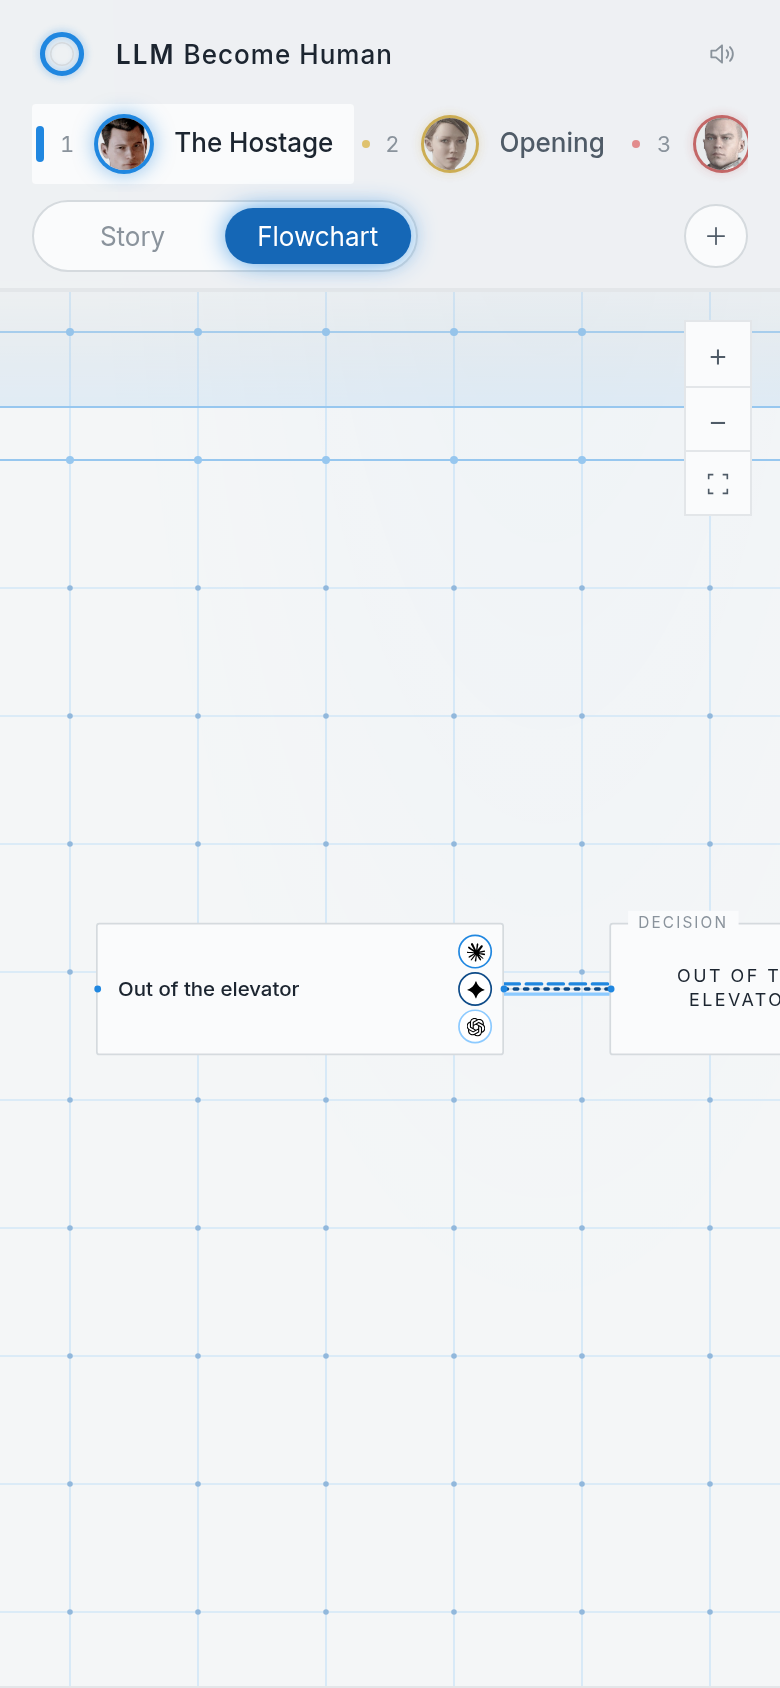
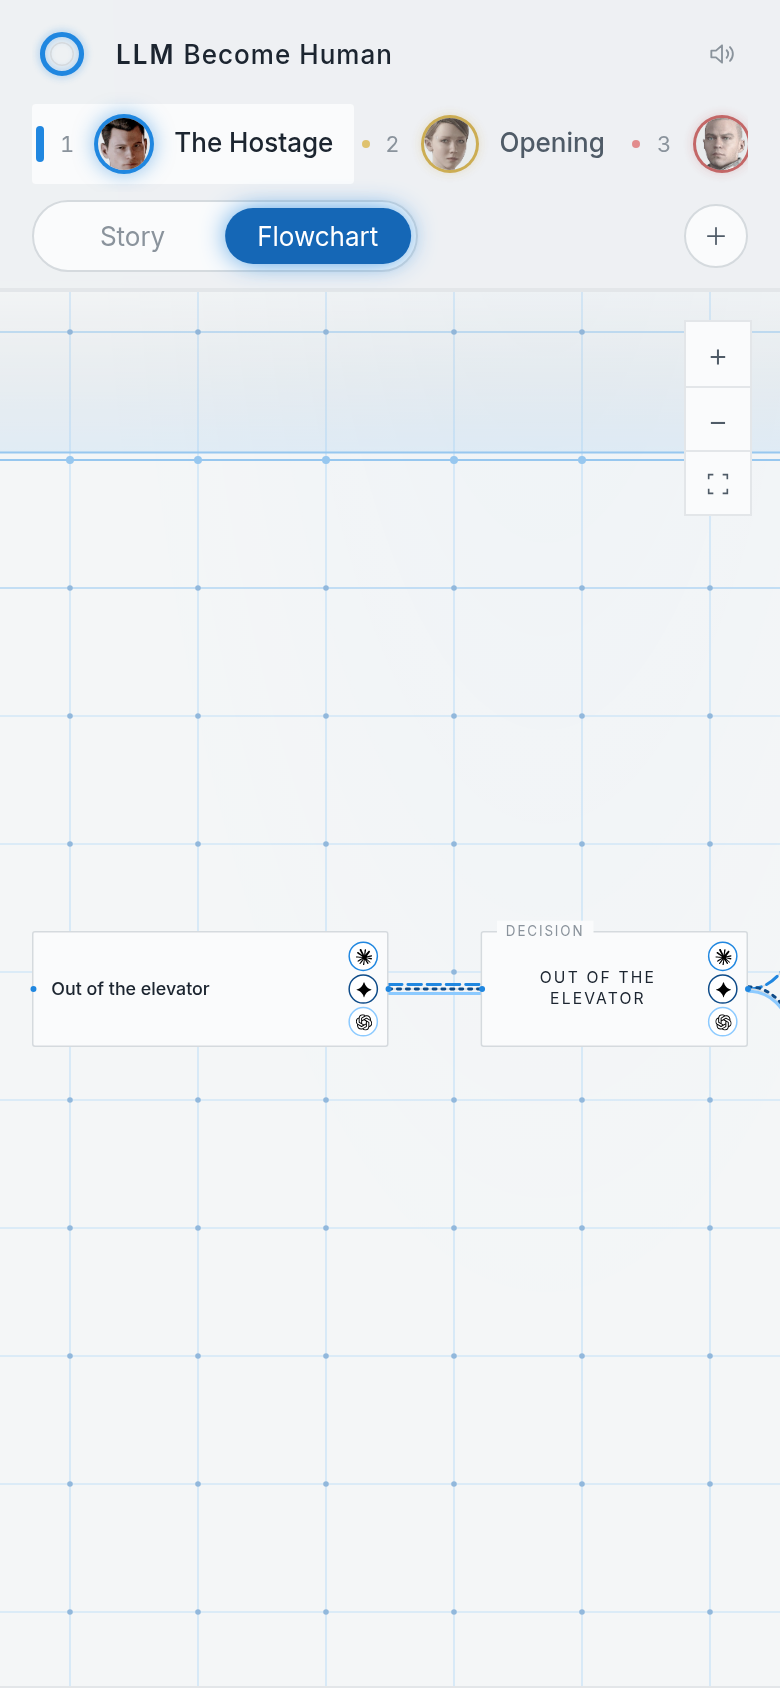
feat(ui): phone touch: Flowchart pinch and fit, details from the bottom, taps for hover
- On phones the Flowchart opens fitted around the current Moment (the
  selected node, else the Story Moment that was on screen, else where
  the followed model entered) and its neighbours.
- Two fingers pinch to zoom around the point between them; one finger
  pans as before.
- The details panel is a sheet from the bottom, up to 70% of the
  screen; drag its grip down or tap × to close it.
- Taps stand in for hovering: a Story logo names its model as it shows
  its reason; on the Flowchart the first tap on a box shows its
  dialogue and the first tap on a marker its card, the next tap acts.

Closes #37

diff --git a/detroit_benchmark/dashboard_assets/app.js b/detroit_benchmark/dashboard_assets/app.js
@@ -350,6 +350,7 @@ async function setView(view) {
   document.body.dataset.viewMotion = story ? 'to-story' : 'to-flow';
   $('viewStory').setAttribute('aria-pressed',String(story));
   $('viewFlow').setAttribute('aria-pressed',String(!story));
+  if (!story && !$('storyView').classList.contains('is-hidden')) state.flowFocus = storyMomentInView();
   if (animate) {playClass(from, 'view-leave', VIEW_LEAVE_MS); await wait(VIEW_LEAVE_MS);}
   from.classList.remove('view-leave');
   cancelChapterSlide();
@@ -649,7 +650,13 @@ function createLogo(node, view) {
   btn.title=`${modelLabel(run)} — inspect recorded explanation at ${node.label}`;
   btn.setAttribute('aria-label',btn.title);
   btn.innerHTML=modelIcon(providerOf(run));
-  btn.addEventListener('click',e=>{e.stopPropagation();inspect(node.id,run.id);});
+  btn.dataset.name=run.model||'';
+  btn.addEventListener('click',e=>{
+    e.stopPropagation();
+    // On a touch screen the first tap opens the marker's card, the second the details.
+    if(window.lastPointerWasTouch?.()&&window.unfoldCard&&!window.unfoldCard.isOpenFor(btn)){window.unfoldCard.open(btn);return;}
+    inspect(node.id,run.id);
+  });
   return btn;
 }
 /* The provider's mark at the middle of a route line, so same-colored routes stay apart.
@@ -741,6 +748,7 @@ function drawGraph(graph, paths) {
     }
     n.addEventListener('click',e=>{
       e.stopPropagation();
+      if(window.touchPeek?.(n))return;  // touch: the first tap shows the dialogue
       if(node.type==='portal'&&node.destinationChapter&&chapters().includes(node.destinationChapter))changeChapter(node.destinationChapter);
       else showMomentInStory(node,users.map(view=>view.run.id));
     });
@@ -799,6 +807,7 @@ function openChapterView(){
   // Long chapters are unreadable when fitted, so start at a legible zoom on the first node.
   if(!state.rendered)return;
   state.viewTouched=false;
+  if(window.isPhoneLayout?.()){openAroundMoment();return;}
   fitGraph();
   if(state.scale>=MIN_READABLE_FIT)return;
   const nodes=[...state.rendered.graph.nodes.values()], first=nodes.reduce((a,b)=>b.x<a.x?b:a,nodes[0]);
@@ -807,6 +816,37 @@ function openChapterView(){
   state.scale=OPENING_ZOOM;
   state.panX=48-first.x*state.scale;
   state.panY=box.height/2-(first.y+first.height/2)*state.scale;
+  applyTransform();
+}
+/* The Story Moment at the top of the reading pane, if any. */
+function storyMomentInView(){
+  const top=$('storyScroll').getBoundingClientRect().top+40;
+  const el=[...$('storyContent').querySelectorAll('[data-moment]')].find(m=>m.getBoundingClientRect().bottom>top);
+  return el?.dataset.moment||null;
+}
+/* Phones: the Flowchart opens fitted around the current Moment and its neighbours, so a
+ * finger can read it straight away. The Moment is the selected node, else the one the Story
+ * was showing, else where the followed model entered the chapter. */
+function phoneFocusNode(){
+  const graph=state.rendered.graph, find=id=>id&&graph.nodes.get(graph.groupOf?.get(id)||id);
+  const followed=state.rendered.paths.find(p=>p.run.id===storyRun()?.id)||state.rendered.paths[0];
+  const firstVisited=[...graph.nodes.values()].filter(n=>followed?.path.visited.has(n.id)).sort((a,b)=>a.x-b.x)[0];
+  const nodes=[...graph.nodes.values()];
+  return find(state.selected?.id)||find(state.flowFocus)||firstVisited||nodes.reduce((a,b)=>b.x<a.x?b:a,nodes[0]);
+}
+function openAroundMoment(){
+  const graph=state.rendered.graph, node=phoneFocusNode();
+  if(!node)return fitGraph();
+  const box=$('viewport').getBoundingClientRect();
+  if(!box.width||!box.height)return;
+  const near=new Set([node.id]);
+  for(const e of graph.edges){if(e.from===node.id)near.add(e.to);if(e.to===node.id)near.add(e.from);}
+  const shown=[...near].map(id=>graph.nodes.get(id)).filter(Boolean);
+  const x0=Math.min(...shown.map(n=>n.x)),x1=Math.max(...shown.map(n=>n.x+n.width));
+  const y0=Math.min(...shown.map(n=>n.y)),y1=Math.max(...shown.map(n=>n.y+n.height));
+  state.scale=clamp(Math.min((box.width-32)/(x1-x0),(box.height-64)/(y1-y0)),.3,1.1);
+  state.panX=box.width/2-(x0+x1)/2*state.scale;
+  state.panY=box.height/2-(y0+y1)/2*state.scale;
   applyTransform();
 }
 function fitGraph(){
@@ -828,7 +868,7 @@ function centerSelectedNode({glide=false}={}) {
   const box=$('viewport').getBoundingClientRect();
   state.scale=clamp(Math.max(.72,state.scale),.16,1.45);
   state.panX=box.width*.44-(node.x+node.width/2)*state.scale;
-  state.panY=box.height*.50-(node.y+node.height/2)*state.scale;
+  state.panY=box.height*(window.isPhoneLayout?.()?.22:.50)-(node.y+node.height/2)*state.scale;
   const world=$('graphWorld');
   if(glide&&!reducedMotion()){
     world.classList.add('is-gliding');clearTimeout(state.glideTimer);
@@ -935,18 +975,35 @@ function setupInteractions(){
  $('zoomReset').addEventListener('click',fitToButton);
  $('closeDrawer').addEventListener('click',closeDrawer);
  document.addEventListener('keydown',e=>{if(e.key==='Escape'){closeDrawer();if(state.pickerOpen){state.pickerOpen=false;updateSelectors();}}});
- const vp=$('viewport');let drag=null;
+ const vp=$('viewport');let drag=null,pinch=null;
+ // Two fingers pinch: the chart zooms around the point between them.
+ const touches=new Map();
+ const pinchState=()=>{const [a,b]=[...touches.values()];return {d:Math.hypot(a.x-b.x,a.y-b.y)||1,x:(a.x+b.x)/2,y:(a.y+b.y)/2};};
  vp.addEventListener('pointerdown',e=>{
+  if(e.pointerType==='touch'){
+   touches.set(e.pointerId,{x:e.clientX,y:e.clientY});
+   if(touches.size===2){drag=null;vp.classList.remove('dragging');pinch=pinchState();return;}
+  }
   if(e.button!==0||e.target.closest('.flow-node,.canvas-zoombar,.graph-notice,.canvas-legend'))return;
   drag={id:e.pointerId,x:e.clientX,y:e.clientY,px:state.panX,py:state.panY};
-  vp.classList.add('dragging');vp.setPointerCapture(e.pointerId);
+  vp.classList.add('dragging');try{vp.setPointerCapture(e.pointerId);}catch{}
  });
  vp.addEventListener('pointermove',e=>{
+  if(touches.has(e.pointerId))touches.set(e.pointerId,{x:e.clientX,y:e.clientY});
+  if(pinch&&touches.size===2){
+   const now=pinchState();
+   zoom(now.d/pinch.d,now.x,now.y);
+   state.panX+=now.x-pinch.x;state.panY+=now.y-pinch.y;applyTransform();
+   pinch=now;return;
+  }
   if(!drag||e.pointerId!==drag.id)return;
   state.viewTouched=true;
   state.panX=drag.px+e.clientX-drag.x;state.panY=drag.py+e.clientY-drag.y;applyTransform();
  });
- const end=e=>{if(drag&&drag.id===e.pointerId){drag=null;vp.classList.remove('dragging');}};
+ const end=e=>{
+  touches.delete(e.pointerId);if(touches.size<2)pinch=null;
+  if(drag&&drag.id===e.pointerId){drag=null;vp.classList.remove('dragging');}
+ };
  vp.addEventListener('pointerup',end);vp.addEventListener('pointercancel',end);
  vp.addEventListener('wheel',e=>{
   // Over a node's dialogue, the wheel scrolls the text instead of zooming.

diff --git a/detroit_benchmark/dashboard_assets/phone.js b/detroit_benchmark/dashboard_assets/phone.js
@@ -105,11 +105,67 @@
     row.scrollTo({left: Math.max(0, left), behavior: 'auto'});
   }
 
+  /* Touch: taps stand in for hovering. */
+  let touched = false;
+  document.addEventListener('pointerdown', event => { touched = event.pointerType === 'touch'; }, {capture: true, passive: true});
+  window.lastPointerWasTouch = () => touched;
+  /* The first tap on an element "peeks" (shows what hovering would); the next one acts. */
+  window.touchPeek = el => {
+    if (!touched || el.classList.contains('is-peeked')) { clearPeeks(); return false; }
+    clearPeeks();
+    el.classList.add('is-peeked');
+    return true;
+  };
+  function clearPeeks(except) {
+    document.querySelectorAll('.is-peeked').forEach(el => { if (el !== except) el.classList.remove('is-peeked'); });
+  }
+  document.addEventListener('pointerdown', event => {
+    if (!event.target.closest?.('.is-peeked')) clearPeeks();
+  }, {capture: true, passive: true});
+  /* A tapped model logo in the Story names its model for a moment. */
+  const NAME_MS = 1800;
+  document.addEventListener('click', event => {
+    const mark = touched && event.target.closest?.('.story-mark');
+    if (!mark) return;
+    document.querySelectorAll('.story-mark.is-named').forEach(el => el.classList.remove('is-named'));
+    mark.classList.add('is-named');
+    clearTimeout(mark._nameTimer);
+    mark._nameTimer = setTimeout(() => mark.classList.remove('is-named'), NAME_MS);
+  });
+
+  /* The details panel slides up from the bottom; dragging it down closes it. */
+  const CLOSE_DRAG_PX = 90;
+  function setupSheet() {
+    const drawer = document.getElementById('reasoningDrawer');
+    let drag = null;
+    drawer.addEventListener('pointerdown', event => {
+      if (!query.matches || !event.target.closest('.drawer-grip')) return;
+      drag = {id: event.pointerId, y: event.clientY, dy: 0};
+      try { event.target.setPointerCapture(event.pointerId); } catch { /* synthetic or ended pointer */ }
+    });
+    drawer.addEventListener('pointermove', event => {
+      if (!drag || event.pointerId !== drag.id) return;
+      drag.dy = Math.max(0, event.clientY - drag.y);
+      if (drag.dy > 4) { drawer.classList.add('is-dragging'); drawer.style.transform = `translateY(${drag.dy}px)`; }
+    });
+    const end = event => {
+      if (!drag || event.pointerId !== drag.id) return;
+      const close = drag.dy > CLOSE_DRAG_PX;
+      drag = null;
+      drawer.classList.remove('is-dragging');
+      drawer.style.transform = '';
+      if (close) document.getElementById('closeDrawer').click();
+    };
+    drawer.addEventListener('pointerup', end);
+    drawer.addEventListener('pointercancel', end);
+  }
+
   function sync() { if (query.matches) { if (!homes.length) enter(); } else if (homes.length) leave(); }
 
   document.addEventListener('DOMContentLoaded', () => {
     document.getElementById('storyScroll')?.addEventListener('scroll', onStoryScroll, {passive: true});
     new MutationObserver(showActiveChapter).observe(document.getElementById('chapterList'), {childList: true, subtree: true, attributes: true, attributeFilter: ['class']});
+    setupSheet();
     sync();
   });
   query.addEventListener('change', sync);

diff --git a/detroit_benchmark/dashboard_assets/phone.css b/detroit_benchmark/dashboard_assets/phone.css
@@ -45,3 +45,26 @@ body:has(#storyView.is-hidden) .phone-l2 .story-toolbar { display: none; }
 .phone-chapters .chapter-entry { flex: 0 0 auto; width: auto; max-width: 200px; scroll-snap-align: center; }
 .phone-controls { display: flex; align-items: center; justify-content: space-between; gap: 12px; padding: 4px 0 8px; }
 .phone-controls .picker-panel { left: auto; right: 0; }
+
+/* ── Touch (#37) ──────────────────────────────────────── */
+/* The chart takes every finger gesture: one finger pans, two pinch. */
+body.is-phone .flow-viewport { touch-action: none; }
+/* A first tap on a node shows its dialogue, as hovering does. */
+.flow-node.is-peeked { z-index: 15; border-bottom-color: var(--node-accent, var(--accent)); }
+.flow-node.is-peeked .node-dialogue { visibility: visible; opacity: 1; pointer-events: auto;
+  clip-path: inset(0 -40px -40px -40px); transition: clip-path .3s var(--ease), opacity .12s, visibility 0s; }
+/* A tapped Story logo names its model. */
+.story-mark.is-named .story-mark-name { opacity: 1; visibility: visible; transition: opacity .1s, visibility 0s; }
+
+/* The details panel: a sheet from the bottom, up to about 70% of the screen. */
+.drawer-grip { display: none; }
+body.is-phone .reasoning-drawer { position: fixed; left: 0; right: 0; bottom: 0; top: auto; z-index: 20;
+  width: auto; max-width: none; max-height: 70vh; max-height: 70dvh; display: flex; flex-direction: column;
+  border-left: 0; border-top: 1px solid var(--line); border-radius: 14px 14px 0 0; box-shadow: 0 -12px 40px rgba(28, 37, 48, .18);
+  animation: sheet-up .3s var(--ease); transition: transform .25s var(--ease); }
+body.is-phone .reasoning-drawer.is-dragging { transition: none; }
+/* The grip: drag it down to close the panel. */
+body.is-phone .reasoning-drawer .drawer-grip { display: block; flex: 0 0 auto; height: 26px; touch-action: none; cursor: grab; }
+body.is-phone .reasoning-drawer .drawer-grip::before { content: ""; display: block; width: 40px; height: 4px; margin: 11px auto 0; border-radius: 2px; background: var(--ink-faint); }
+body.is-phone .reasoning-drawer .drawer-content { overflow-y: auto; touch-action: pan-y; overscroll-behavior: contain; }
+@keyframes sheet-up { from { transform: translateY(100%); } }

diff --git a/detroit_benchmark/dashboard_assets/unfold.js b/detroit_benchmark/dashboard_assets/unfold.js
@@ -105,13 +105,19 @@
   });
   document.addEventListener('focusin', event => {
     const button = marker(event);
+    // A tap also focuses the marker; on touch the click decides (app.js), not the focus.
+    if (button && window.lastPointerWasTouch?.()) return;
     if (button) open(button); else if (current) hide();
   });
   document.addEventListener('focusout', event => { if (marker(event)) hide(); });
   document.addEventListener('keydown', event => { if (event.key === 'Escape' && current) hide(true); });
   // Panning, zooming or clicking elsewhere moves the marker out from under the card.
   for (const type of ['pointerdown', 'wheel']) {
-    document.addEventListener(type, event => { if (current && !card?.contains(event.target)) hide(true); }, {capture: true, passive: true});
+    document.addEventListener(type, event => {
+      if (current && !card?.contains(event.target) && !current.contains(event.target)) hide(true);
+    }, {capture: true, passive: true});
   }
+  // Touch screens open the card with a first tap (app.js); a second tap opens the details.
+  window.unfoldCard = {open, isOpenFor: button => current === button && card?.classList.contains('is-open')};
 
 })();

diff --git a/detroit_benchmark/dashboard_assets/index.html b/detroit_benchmark/dashboard_assets/index.html
@@ -94,6 +94,7 @@
           </section>
 
           <aside id="reasoningDrawer" class="reasoning-drawer is-hidden" aria-label="Moment">
+            <div class="drawer-grip" aria-hidden="true"></div>
             <button id="closeDrawer" class="drawer-close" type="button" aria-label="Close" title="Close">×</button>
             <div id="drawerContent" class="drawer-content"></div>
           </aside>

diff --git a/tests/test_phone_browser.py b/tests/test_phone_browser.py
@@ -210,3 +210,99 @@ def test_phone_levels_respect_reduced_motion(detroit_dashboard):
             assert duration < 0.01
         finally:
             browser.close()
+
+
+# ── Touch (#37) ──────────────────────────────────────────
+
+
+def open_flowchart(page):
+    page.locator("#viewFlow").tap()
+    page.locator(".flow-node").first.wait_for()
+    page.wait_for_timeout(500)
+
+
+def test_phone_flowchart_opens_around_the_current_moment(phone):
+    page = phone
+    open_flowchart(page)
+    shown = page.evaluate(
+        """() => {
+          const graph = state.rendered.graph, node = phoneFocusNode();
+          const ids = new Set([node.id]);
+          for (const e of graph.edges) { if (e.from === node.id) ids.add(e.to); if (e.to === node.id) ids.add(e.from); }
+          const vp = document.getElementById('viewport').getBoundingClientRect();
+          return [...ids].map(id => {
+            const r = document.querySelector(`.flow-node[data-node-id="${CSS.escape(id)}"]`).getBoundingClientRect();
+            return r.left >= vp.left - 1 && r.right <= vp.right + 1 && r.top >= vp.top - 1 && r.bottom <= vp.bottom + 1;
+          });
+        }"""
+    )
+    assert len(shown) >= 2 and all(shown)
+    page.screenshot(path=str(SHOTS / "phone_flowchart_moment.png"))
+    assert not page.errors
+
+
+def test_two_fingers_pinch_the_flowchart(phone):
+    page = phone
+    open_flowchart(page)
+    before = page.evaluate("state.scale")
+    page.evaluate(
+        """() => {
+          const vp = document.getElementById('viewport'), r = vp.getBoundingClientRect();
+          const cx = r.left + r.width / 2, cy = r.top + r.height / 2;
+          const fire = (type, id, x) => vp.dispatchEvent(new PointerEvent(type, {pointerId: id, pointerType: 'touch', isPrimary: id === 1, clientX: x, clientY: cy, bubbles: true}));
+          fire('pointerdown', 1, cx - 30); fire('pointerdown', 2, cx + 30);
+          for (let d = 30; d <= 90; d += 10) { fire('pointermove', 1, cx - d); fire('pointermove', 2, cx + d); }
+          fire('pointerup', 1, cx - 90); fire('pointerup', 2, cx + 90);
+        }"""
+    )
+    assert page.evaluate("state.scale") > before * 2
+    assert not page.errors
+
+
+def test_taps_stand_in_for_hovering_and_details_slide_up(phone):
+    page = phone
+    # Story: tapping another model's logo names it and shows its reason.
+    mark = page.locator('.story-mark[aria-pressed="false"]').first.element_handle()
+    mark.scroll_into_view_if_needed()
+    mark.tap()
+    assert "is-named" in mark.get_attribute("class")
+    assert mark.get_attribute("aria-pressed") == "true"
+    page.locator(".story-mark.is-named .story-mark-name").wait_for(state="visible")
+
+    open_flowchart(page)
+    # A box: the first tap shows its dialogue.
+    box = page.locator(".flow-node:has(.node-dialogue)").first
+    box.tap(position={"x": 12, "y": 8})
+    assert "is-peeked" in box.get_attribute("class")
+    assert box.locator(".node-dialogue").is_visible()
+    # A model's marker: the first tap opens its card, the second the details panel.
+    marker = page.locator(".flow-node.visited .node-model-button").first
+    marker.tap()
+    page.locator("#unfoldCard.is-open").wait_for()
+    assert page.locator("#reasoningDrawer").is_hidden()
+    marker.tap()
+    drawer = page.locator("#reasoningDrawer")
+    drawer.wait_for()
+    page.wait_for_timeout(400)
+    sheet = drawer.bounding_box()
+    assert abs(sheet["y"] + sheet["height"] - PHONE["height"]) <= 2
+    assert sheet["height"] <= PHONE["height"] * 0.7 + 2
+    page.screenshot(path=str(SHOTS / "phone_details.png"))
+    # Dragging the grip down closes it.
+    page.evaluate(
+        """() => {
+          const grip = document.querySelector('.drawer-grip'), r = grip.getBoundingClientRect();
+          const x = r.left + r.width / 2, y = r.top + r.height / 2;
+          const fire = (type, dy) => grip.dispatchEvent(new PointerEvent(type, {pointerId: 7, pointerType: 'touch', isPrimary: true, clientX: x, clientY: y + dy, bubbles: true}));
+          fire('pointerdown', 0); fire('pointermove', 60); fire('pointermove', 140); fire('pointerup', 140);
+        }"""
+    )
+    drawer.wait_for(state="hidden")
+    # And × closes it too.
+    marker = page.locator(".flow-node.visited .node-model-button").first
+    marker.tap()
+    marker.tap()
+    drawer.wait_for()
+    page.locator("#closeDrawer").tap()
+    drawer.wait_for(state="hidden")
+    assert not page.errors
